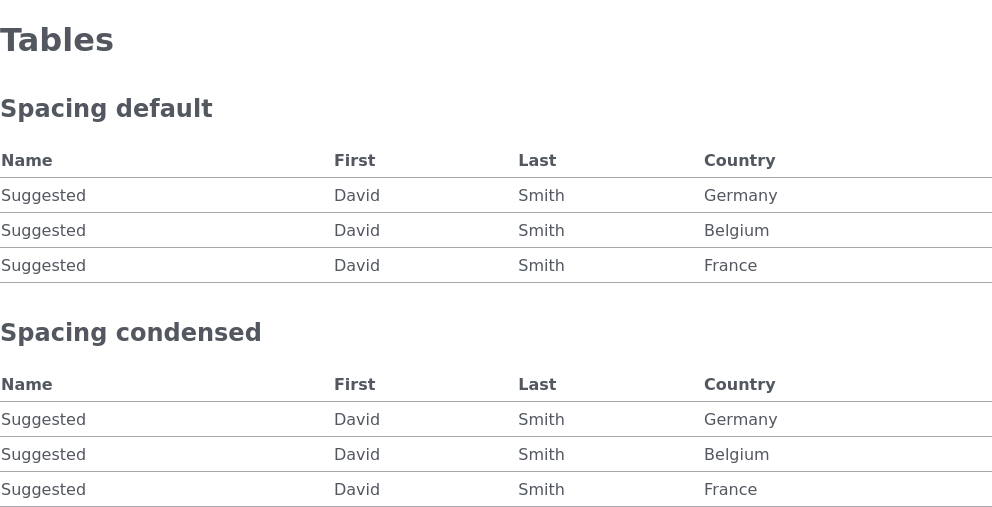
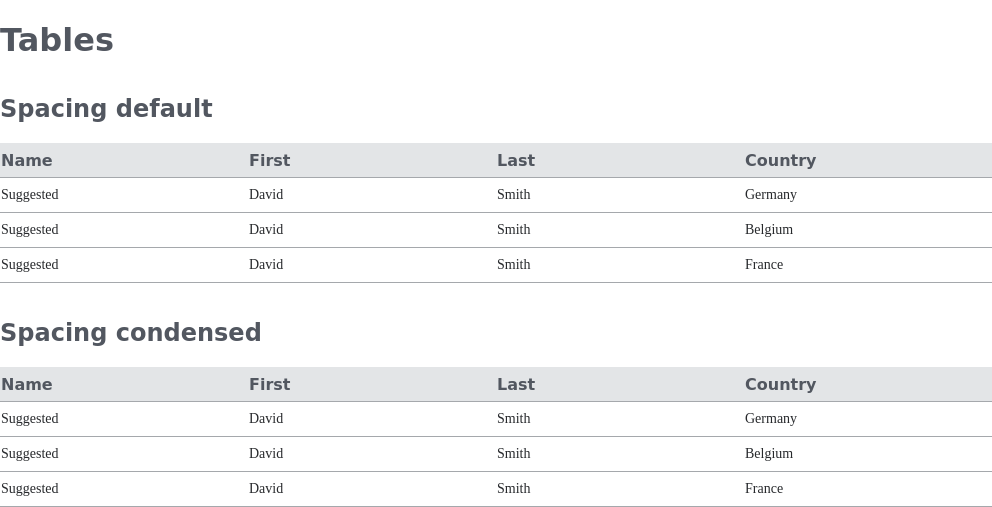
add pagination on table component

diff --git a/packages/components/src/components/table/Table.tsx b/packages/components/src/components/table/Table.tsx
@@ -1,0 +1,191 @@
+import * as React from 'react';
+import { Checkbox, Icon, Dropdown } from '..';
+
+export type TableProps = {
+  items: { [key: string]: string }[];
+  header: { [key: string]: string }[];
+  rowsPerPage?: number;
+  showSorting?: boolean;
+  showPagination?: boolean;
+  showCheckbox?: boolean;
+};
+
+export const Table: React.FC<TableProps> = ({
+  items,
+  header,
+  showCheckbox,
+  rowsPerPage,
+  showSorting,
+  showPagination,
+}: TableProps) => {
+  const [data, setData] = React.useState(items);
+  const [currentPage, setCurrentPage] = React.useState(1);
+  const [select, setSelect] = React.useState(rowsPerPage);
+  const [order, setOrder] = React.useState('DSC');
+  const [headingKey, setHeadingKey] = React.useState({
+    company: true,
+    contact: true,
+    country: true,
+  });
+
+  const renderIcon = (key) => {
+    if ([key] && headingKey[key]) {
+      return <Icon iconName="drop-down" onClick={() => sortingColumn(key)} />;
+    } else {
+      return <Icon iconName="drop-up" onClick={() => sortingColumn(key)} />;
+    }
+  };
+
+  const sortingColumn = (key) => {
+    if (key && order === 'ASC') {
+      const sorted = [...data].sort((a, b) => (a[key] < b[key] ? 1 : -1));
+      setData(sorted);
+      setOrder('DSC');
+      setHeadingKey({ ...headingKey, [key]: true });
+    } else if (key && order === 'DSC') {
+      const sorted = [...data].sort((a, b) => (a[key] > b[key] ? 1 : -1));
+      setData(sorted);
+      setOrder('ASC');
+      setHeadingKey({ ...headingKey, [key]: false });
+    }
+  };
+
+  const handleSelectChange = (e) => {
+    setCurrentPage(1);
+    setSelect(e.target.value);
+  };
+
+  const getRowsPerPages = (select) => {
+    if (select.value) {
+      return select.value;
+    } else {
+      return rowsPerPage;
+    }
+  };
+
+  const getPage = (currentIndex, pageSize, array) => {
+    const startIndex = (currentIndex - 1) * pageSize;
+    const endIndex = startIndex + pageSize;
+    return array.slice(startIndex, endIndex);
+  };
+
+  const getTotalPages = (pageSize, array) => {
+    const result = array.length / pageSize;
+    return Math.ceil(result);
+  };
+
+  const hasNextPage = (currentPage, pageSize, array) => {
+    const nextPageIndex = currentPage * pageSize;
+    return nextPageIndex < array.length;
+  };
+
+  const renderPagination = () => {
+    return (
+      <div className="tk-table-pagination">
+        <Icon
+          className={
+            currentPage === 1 ? 'tk-table-button-disabled' : 'tk-table-button'
+          }
+          iconName="chevron-left"
+          disabled={currentPage === 1}
+          onClick={() => setCurrentPage(1)}
+        />
+        <Icon
+          className={
+            currentPage <= 1 ? 'tk-table-button-disabled' : 'tk-table-button'
+          }
+          iconName="left"
+          disabled={currentPage <= 1}
+          onClick={() => setCurrentPage(currentPage - 1)}
+        />
+        <p>Rows per page: </p>
+        <Dropdown
+          className="tk-table-dropdown"
+          size="small"
+          onChange={handleSelectChange}
+          placeHolder={rowsPerPage.toString()}
+          options={[
+            {
+              label: '5',
+              value: 5,
+            },
+            {
+              label: '10',
+              value: 10,
+            },
+            {
+              label: '25',
+              value: 25,
+            },
+            {
+              label: '50',
+              value: 50,
+            },
+            {
+              label: '100',
+              value: 100,
+            },
+          ]}
+        />
+        <p>
+          Page {currentPage} of {totalPages}
+        </p>
+        <Icon
+          className={nextPage ? 'tk-table-button' : 'tk-table-button-disabled'}
+          iconName="right"
+          disabled={!nextPage}
+          onClick={() => setCurrentPage(currentPage + 1)}
+        />
+        <Icon
+          className={nextPage ? 'tk-table-button' : 'tk-table-button-disabled'}
+          iconName="chevron-right"
+          disabled={!nextPage}
+          onClick={() => setCurrentPage(totalPages)}
+        />
+      </div>
+    );
+  };
+
+  const totalEntries = data.length;
+  const page = getPage(currentPage, getRowsPerPages(select), data);
+  const totalPages = getTotalPages(getRowsPerPages(select), data);
+  const nextPage = hasNextPage(currentPage, getRowsPerPages(select), data);
+
+  return (
+    <>
+      <table className="tk-table">
+        <thead>
+          <tr>
+            <th className="tk-table-checkbox">
+              {showCheckbox && <Checkbox label="" name="simple-checkbox" />}
+            </th>
+            {header.map((value, index) => (
+              <th key={index}>
+                <h3>
+                  {value.heading.toUpperCase()}
+                  {showSorting && renderIcon(value.key)}
+                </h3>
+              </th>
+            ))}
+          </tr>
+        </thead>
+        <tbody>
+          {page.map((column, index) => (
+            <tr key={index}>
+              <td>
+                {showCheckbox && <Checkbox label="" name="simple-checkbox" />}
+              </td>
+              {header.map((columnItem, index) => {
+                return <td key={index}>{column[columnItem.key]}</td>;
+              })}
+            </tr>
+          ))}
+        </tbody>
+      </table>
+      {showPagination && renderPagination()}
+      <div>Total entries: {totalEntries}</div>
+    </>
+  );
+};
+
+export default Table;

diff --git a/packages/components/stories/Table.stories.tsx b/packages/components/stories/Table.stories.tsx
@@ -1,0 +1,104 @@
+import * as React from 'react';
+import { Table } from '../src/components';
+import '../src/styles';
+import './stories.scss';
+
+export const SimpleTable1: React.FC = () => {
+  const items = [
+    {
+      company: 'Alfreds Futterkiste',
+      contact: 'Maria Anders',
+      country: 'Germany',
+    },
+    {
+      company: 'Centro comercial Moctezuma',
+      contact: 'Francisco Chang',
+      country: 'Mexico',
+    },
+    {
+      company: 'Ernst Handel',
+      contact: 'Roland Mendel',
+      country: 'Austria',
+    },
+    {
+      company: 'Berglunds snabbkop',
+      contact: 'Paul Mendel',
+      country: 'Sweden',
+    },
+    {
+      company: 'North/South',
+      contact: 'Paul Wali',
+      country: 'UK',
+    },
+    {
+      company: 'Koniglich Essen',
+      contact: 'Elia Wendel',
+      country: 'Germani',
+    },
+    {
+      company: 'Magazzini Alimentari Riuniti',
+      contact: 'Fred Cartoni',
+      country: 'Italie',
+    },
+    {
+      company: 'Paris specialites',
+      contact: 'Jean Dujardino',
+      country: 'France',
+    },
+    {
+      company: 'Island Trading',
+      contact: 'Gilles Courant',
+      country: 'UK',
+    },
+    {
+      company: 'Laughing Bacchus Winecellars',
+      contact: 'Caribou Lice',
+      country: 'Canada',
+    },
+    {
+      company: 'Winecellars',
+      contact: 'Angel Chice',
+      country: 'Espagna',
+    },
+    {
+      company: 'Peugeot',
+      contact: 'Francis Gaumont',
+      country: 'France',
+    },
+  ];
+
+  const header = [
+    {
+      heading: 'company',
+      key: 'company',
+    },
+    {
+      heading: 'contact',
+      key: 'contact',
+    },
+    {
+      heading: 'country',
+      key: 'country',
+    },
+  ];
+  const showCheckbox = true;
+  const rowsPerPage = 2;
+  const showSorting = true;
+  const showPagination = true;
+
+  return (
+    <Table
+      items={items}
+      header={header}
+      showCheckbox={showCheckbox}
+      rowsPerPage={rowsPerPage}
+      showSorting={showSorting}
+      showPagination={showPagination}
+    />
+  );
+};
+
+export default {
+  title: 'Components/Table',
+  component: Table,
+};

diff --git a/packages/styles/src/components/atoms/_table.scss b/packages/styles/src/components/atoms/_table.scss
@@ -1,19 +1,73 @@
 .tk-table {
   border-collapse: collapse;
   width: 100%;
+  table-layout: fixed;
+
   th {
     text-align: left;
     border-bottom: toRem(1) solid $scolor-graphite-minus-48;
     height: $--tk-table-cell-height;
+    background-color: getColor($graphite, '10');
   }
-  tbody tr { 
+  tbody tr {
     &:hover {
-    background-color: $--tk-table-hover-color;
+      background-color: getColor($electricity, '10');
     }
   }
   td {
     height: $--tk-table-cell-height;
     vertical-align: middle;
     border-bottom: toRem(1) solid $scolor-graphite-minus-48;
+    font-family: Segoe UI;
+    font-size: 14px;
+    font-style: normal;
+    font-weight: 400;
+    line-height: 20px;
+    letter-spacing: 0em;
+    text-align: left;
+    color: getColor($graphite, '80');
   }
+}
+.tk-table h3 {
+  color: getColor($graphite, '80');
+  font-family: Segoe UI;
+  font-size: 12px;
+  font-style: normal;
+  font-weight: 700;
+  line-height: 16px;
+  letter-spacing: 0em;
+  text-align: left;
+}
+
+.tk-table-button {
+  margin: 0 5px;
+  color: getColor($graphite, '50');
+}
+
+.tk-table-button-disabled {
+  margin: 0 5px;
+  cursor: default;
+  pointer-events: all;
+  color: getColor($graphite, '30');
+}
+.tk-table-dropdown {
+  width: 65px;
+  margin: 0 10px;
+}
+.tk-table-pagination {
+  margin-top: 10px;
+  display: flex;
+  align-items: center;
+  justify-content: center;
+  color: getColor($graphite, '80');
+  font-family: Segoe UI;
+  font-size: 14px;
+  font-style: normal;
+  font-weight: 400;
+  line-height: 20px;
+  letter-spacing: 0em;
+  text-align: right;
+}
+.tk-table-checkbox {
+  width: 32px;
 }
